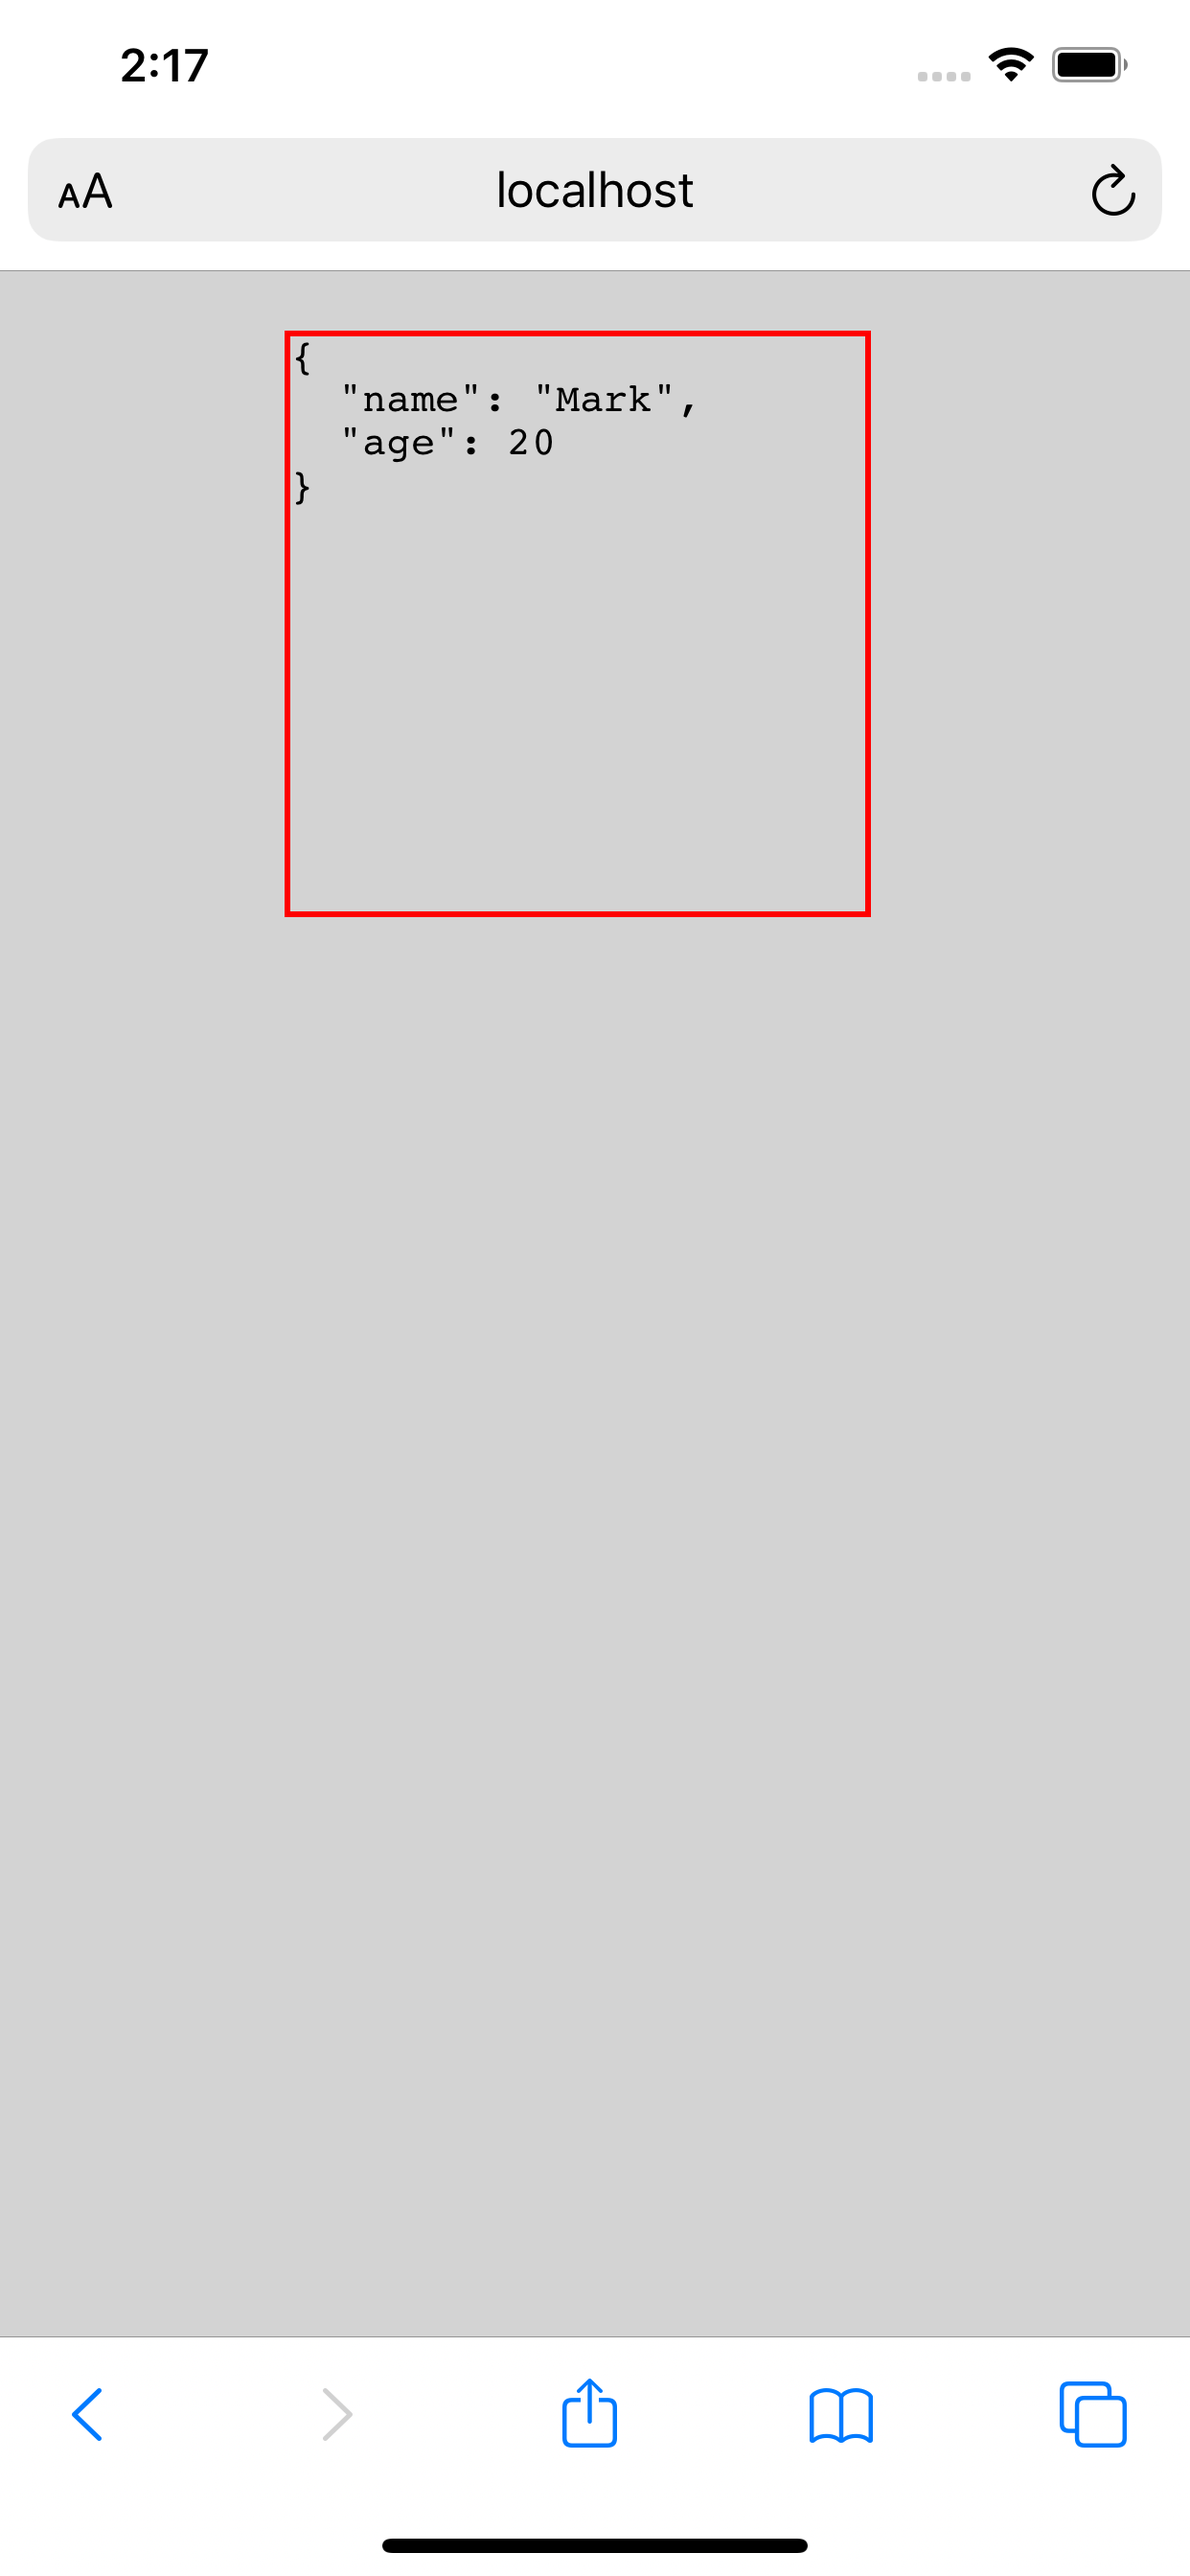
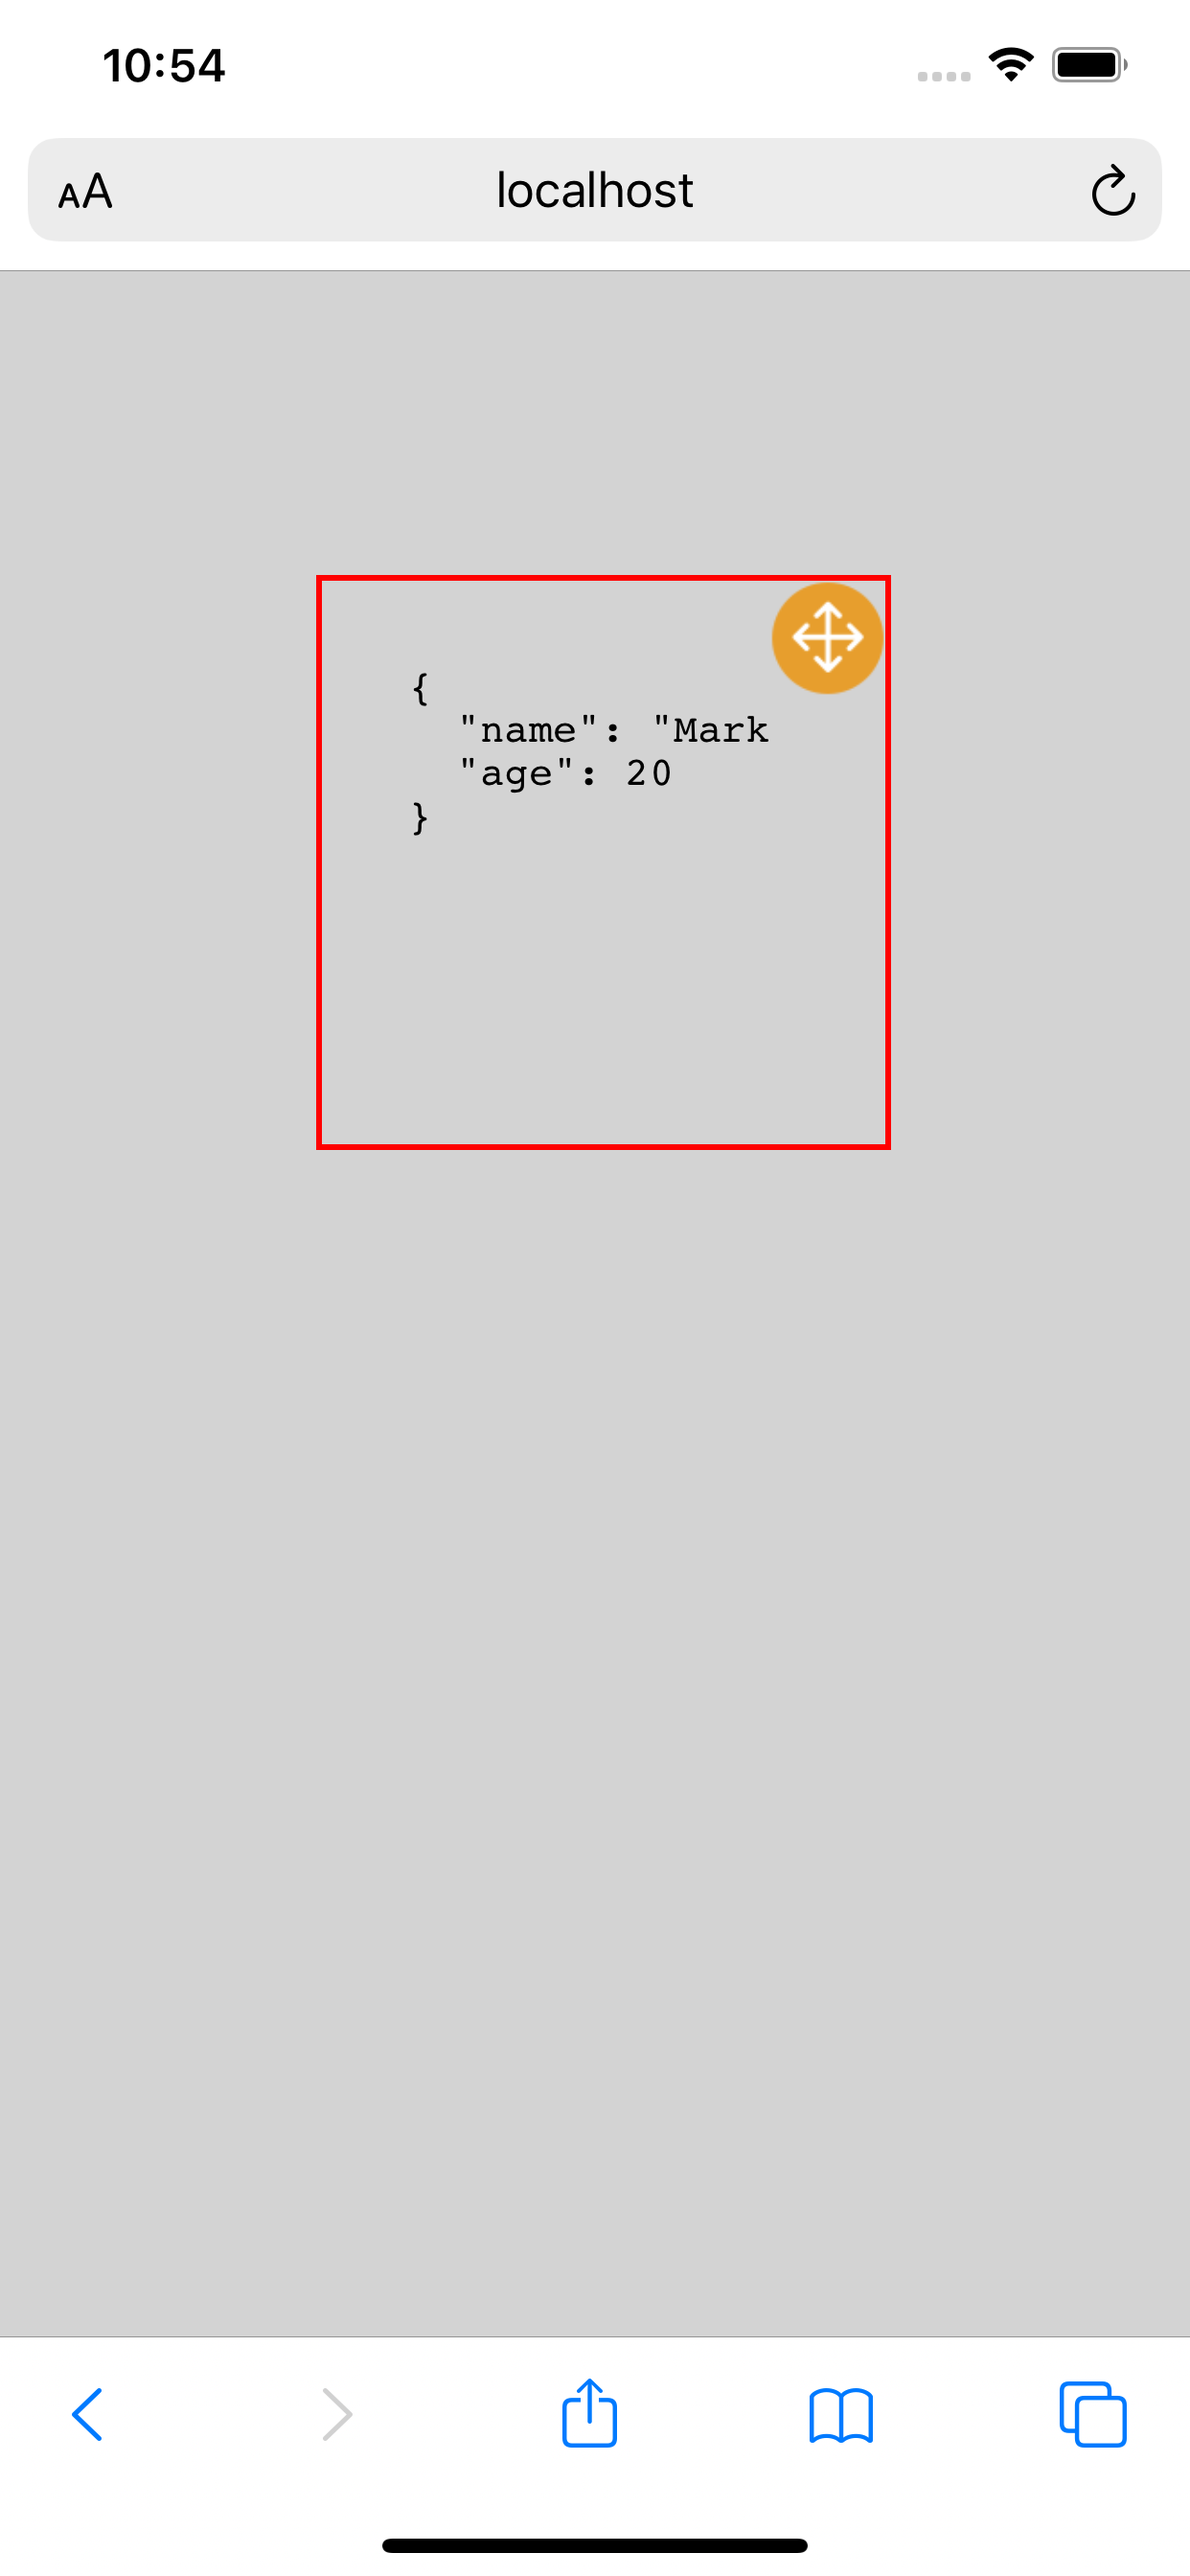
optimize dragging and scrolling

diff --git a/index.js b/index.js
@@ -1,59 +1,90 @@
 import Hammer from 'hammerjs'
 
-const DEFAULT_STYLE = {
-    border: '2px red solid',
-    position: 'absolute',
-    'z-index': 9999999,
-    width: '200px',
-    height: '200px',
-    left: '0px',
-    top: '0px',
-    overflow: 'auto'
+const CONTAINER_STYLE = {
+  border: '2px red solid',
+  position: 'absolute',
+  display: 'flex',
+  'z-index': 9999999,
+  width: '200px',
+  height: '200px',
+  left: '0px',
+  top: '0px',
+  overflow: 'scroll',
+  'box-sizing': 'border-box'
+}
+
+const TARGET_STYLE = {
+  flex: 1,
+  width: '100%',
+  'box-sizing': 'border-box',
+  padding: '30px',
+  overflow: 'auto'
+}
+
+const DRAGGER_STYLE = {
+  width: '40px',
+  height: '40px'
 }
 
 class WebDebugBox {
-    init() {
-        console.log('There is a web debug box running on your website')
-        this.target = document.createElement('pre')
-        this.setStyle(DEFAULT_STYLE)
-        this._addBoxToPage()
-        this._bindEvent()
-        this.currentPointerCenterX = 0
-        this.currentPointerCenterY = 0
-    }
-    showData(data) {
-        this.target.innerHTML = JSON.stringify(data, Object.keys(data), 2)
-    }
-    setStyle(style) {
-        Object.keys(style).forEach(key => this.target.style[key] = style[key])
-    }
-    setClass(className) {
-        this.target.className = className
-    }
-    _addBoxToPage() {
-        document.body.appendChild(this.target)
-    }
-    _bindEvent() {
-        const hammer = new Hammer(this.target)
-        const pan = new Hammer.Pan({threshold: 1})
-        hammer.add(pan)
-        hammer.on('panstart', (event) => {
-            this.currentPointerCenterX = event.center.x
-            this.currentPointerCenterY = event.center.y
-        })
-        hammer.on('panmove', (event) => {
-            const movedX = event.center.x - this.currentPointerCenterX
-            const movedY = event.center.y - this.currentPointerCenterY
-            this._panBox(movedX, movedY)
-            this.currentPointerCenterX = event.center.x
-            this.currentPointerCenterY = event.center.y
-        })
-    }
+  init() {
+    console.log('There is a web debug box running on your website')
+    this.container = document.createElement('div')
+    this.target = document.createElement('pre')
+    this.dragger = document.createElement('img')
+    this.dragger.setAttribute('src', require('./dragger.png'))
 
-    _panBox(movedX, movedY) {
-        this.target.style.left = `${Number.parseFloat(this.target.style.left) + Number.parseFloat(movedX)}px`
-        this.target.style.top = `${Number.parseFloat(this.target.style.top) + Number.parseFloat(movedY)}px`
-    }
+    this.container.appendChild(this.target)
+    this.container.appendChild(this.dragger)
+
+    this.setStyle(this.container, CONTAINER_STYLE)
+    this.setStyle(this.target, TARGET_STYLE)
+    this.setStyle(this.dragger, DRAGGER_STYLE)
+
+    this._addBoxToPage()
+    this._bindEvent()
+    this.currentPointerCenterX = 0
+    this.currentPointerCenterY = 0
+  }
+
+  showData(data) {
+    this.target.innerHTML = JSON.stringify(data, Object.keys(data), 2)
+  }
+
+  setStyle(target, style) {
+    Object.keys(style).forEach(key => target.style[key] = style[key])
+  }
+
+  setClass(className) {
+    this.container.className = className
+  }
+
+  _addBoxToPage() {
+    document.body.appendChild(this.container)
+  }
+
+  _bindEvent() {
+    const hammer = new Hammer(this.dragger)
+    const pan = new Hammer.Pan({threshold: 1})
+    hammer.add(pan)
+    hammer.on('panstart', (event) => {
+      this.currentPointerCenterX = event.center.x
+      this.currentPointerCenterY = event.center.y
+    })
+    hammer.on('panmove', (event) => {
+      const movedX = event.center.x - this.currentPointerCenterX
+      const movedY = event.center.y - this.currentPointerCenterY
+      this._panBox(movedX, movedY)
+      this.currentPointerCenterX = event.center.x
+      this.currentPointerCenterY = event.center.y
+    })
+  }
+
+  _panBox(movedX, movedY) {
+    const left = `${Number.parseFloat(this.container.style.left) + Number.parseFloat(movedX)}px`
+    const top = `${Number.parseFloat(this.container.style.top) + Number.parseFloat(movedY)}px`
+    this.setStyle(this.container, { left, top })
+  }
 }
 
 export default new WebDebugBox()

diff --git a/README.md b/README.md
@@ -45,5 +45,5 @@ you can also set style or set class for the `box`
 
 #### Example
 
-![example](./example.png)
+![example](/example.png)
 
